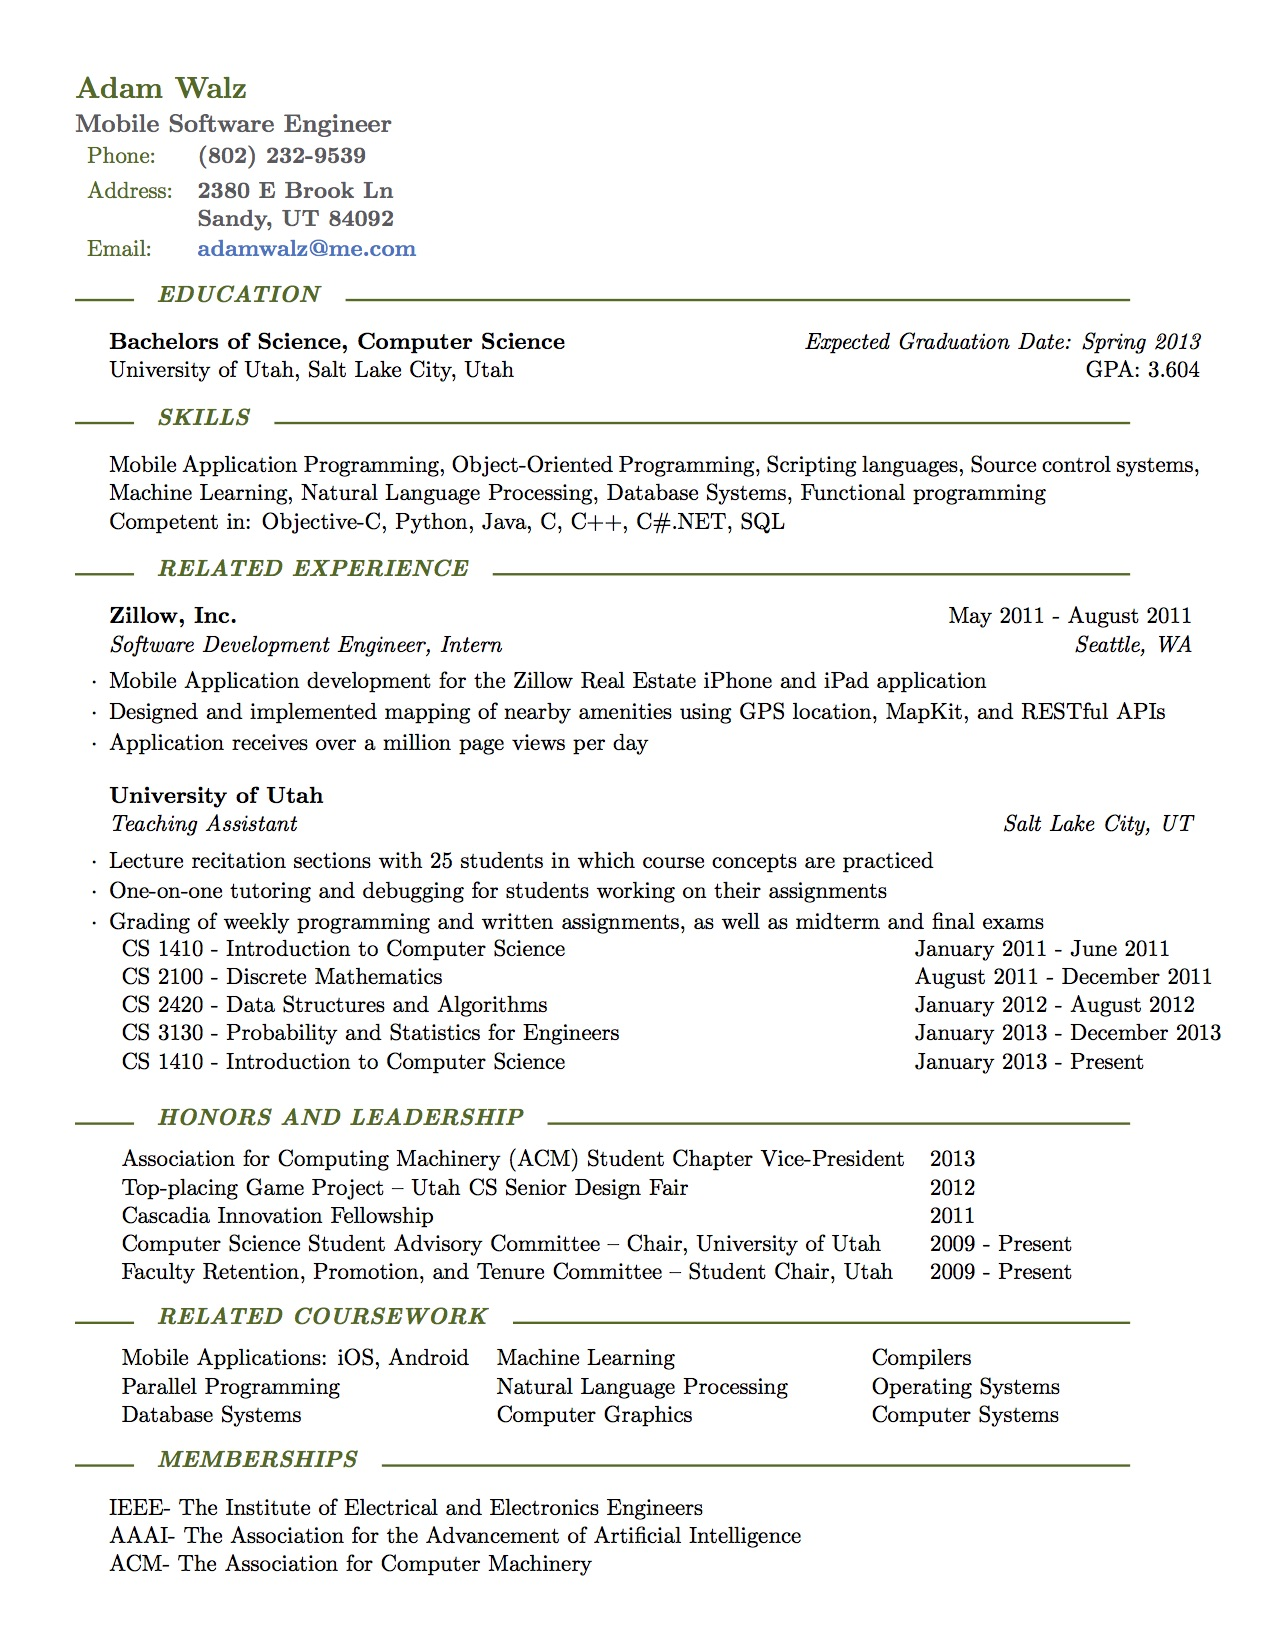
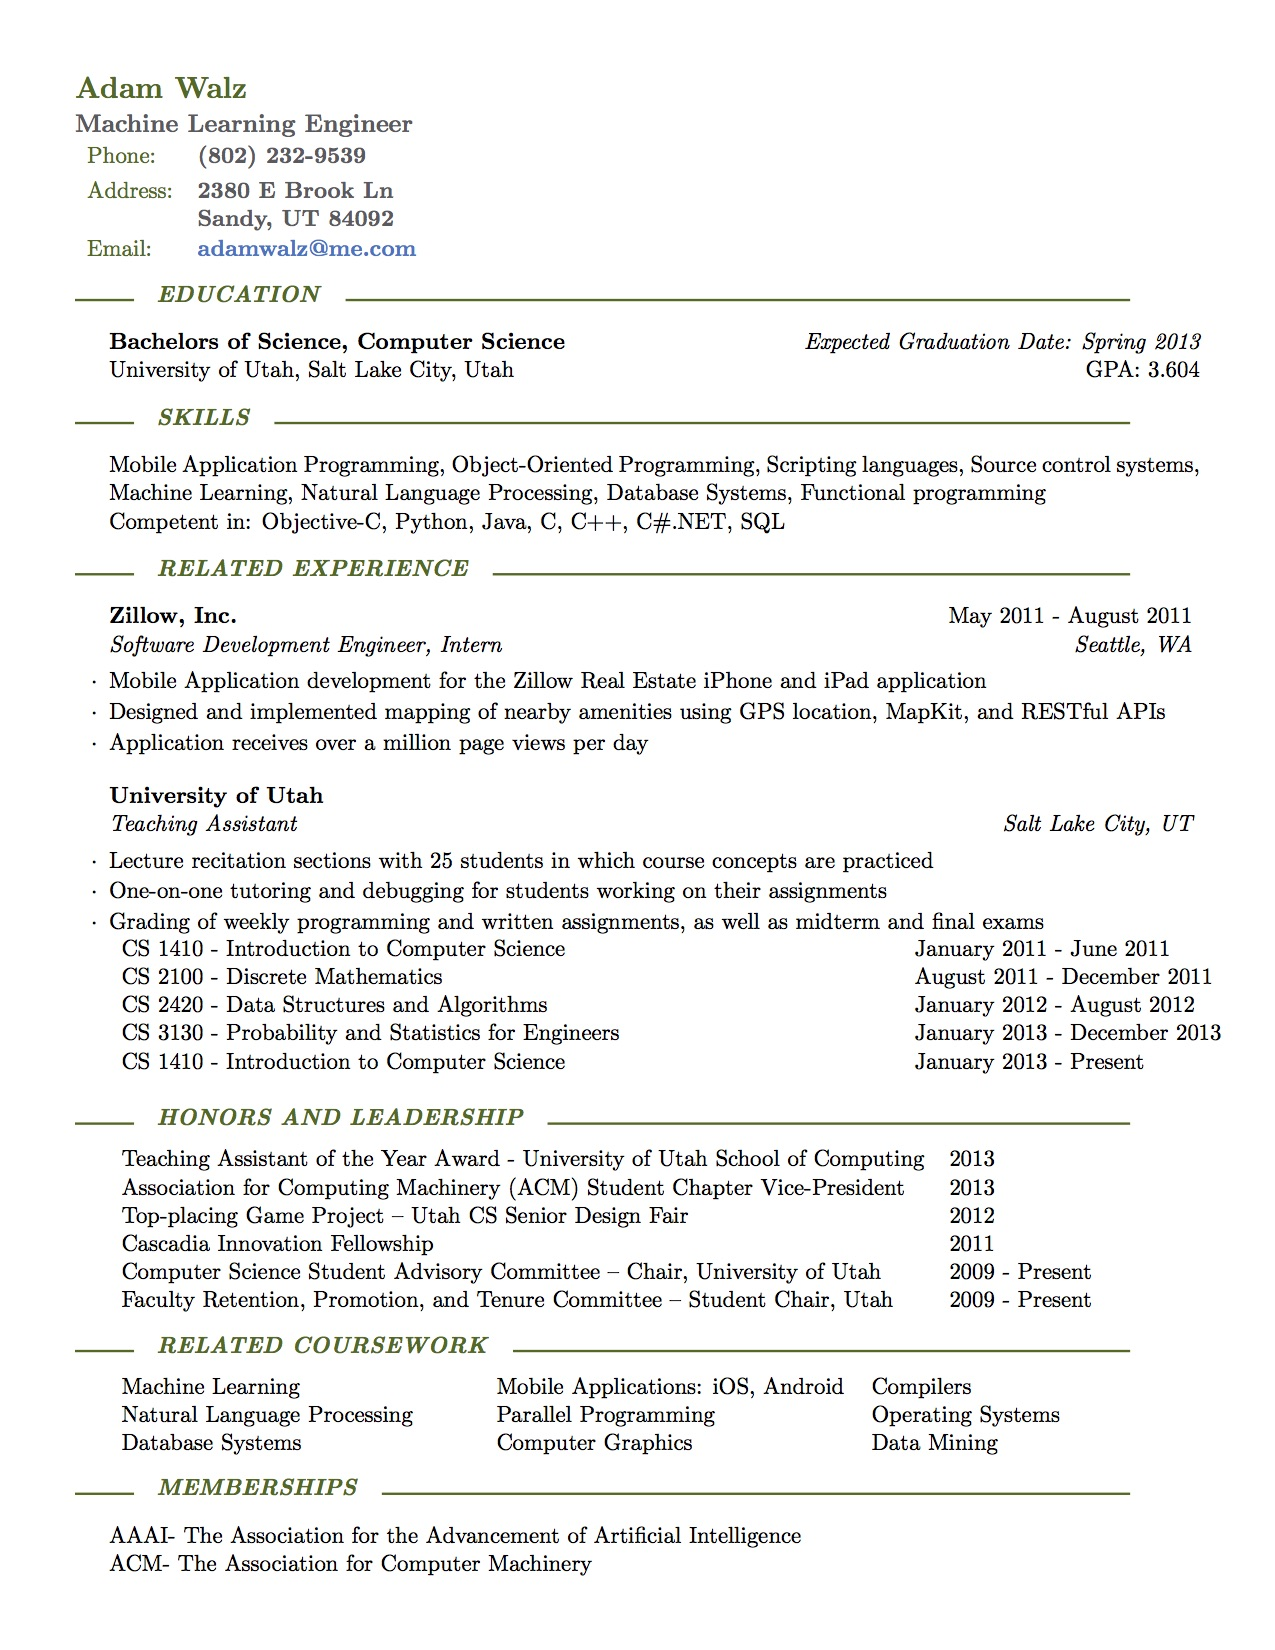
Add Teaching Assistant of the Year award
Created when applying as a Machine Learning Engineer - intern
at Evernote

Changed region(s): [[0.0918, 0.68, 0.8565, 0.9273], [0.0918, 0.0618, 0.3059, 0.0927]]

diff --git a/resume.tex b/resume.tex
@@ -4,7 +4,7 @@
 \usepackage{tabularx}
 
 \name{Adam Walz}
-\jobtitle{Mobile Software Engineer}
+\jobtitle{Machine Learning Engineer}
 \address{\parbox[t]{5cm}{2380 E Brook Ln\\Sandy, UT 84092}}
 \phone{(802) 232-9539}
 \email{adamwalz@me.com}
@@ -95,6 +95,7 @@ CS 1410 - Introduction to Computer Science & January 2013 - Present \\
 
 \begin{rSection}{Honors and Leadership}
 \begin{tabularx}{\textwidth}{ l l }
+Teaching Assistant of the Year Award - University of Utah School of Computing & 2013 \\
 Association for Computing Machinery (ACM) Student Chapter Vice-President & 2013 \\
 Top-placing Game Project \textendash\ Utah CS Senior Design Fair & 2012 \\
 Cascadia Innovation Fellowship & 2011 \\
@@ -114,9 +115,9 @@ Faculty Retention, Promotion, and Tenure Committee \textendash\ Student Chair, U
 
 \begin{rSection}{Related Coursework}
 \begin{tabularx}{\textwidth}{ X X X }
-Mobile Applications: iOS, Android & Machine Learning & Compilers \\
-Parallel Programming & Natural Language Processing & Operating Systems \\
-Database Systems & Computer Graphics & Computer Systems \\
+Machine Learning & Mobile Applications: iOS, Android & Compilers \\
+Natural Language Processing & Parallel Programming & Operating Systems \\
+Database Systems & Computer Graphics & Data Mining \\
 \end{tabularx}
 
 \end{rSection}
@@ -127,7 +128,7 @@ Database Systems & Computer Graphics & Computer Systems \\
 
 \begin{rSection}{Memberships}
 
-IEEE- The Institute of Electrical and Electronics Engineers \\
+%IEEE- The Institute of Electrical and Electronics Engineers \\
 AAAI- The Association for the Advancement of Artificial Intelligence \\
 ACM- The Association for Computer Machinery
 
